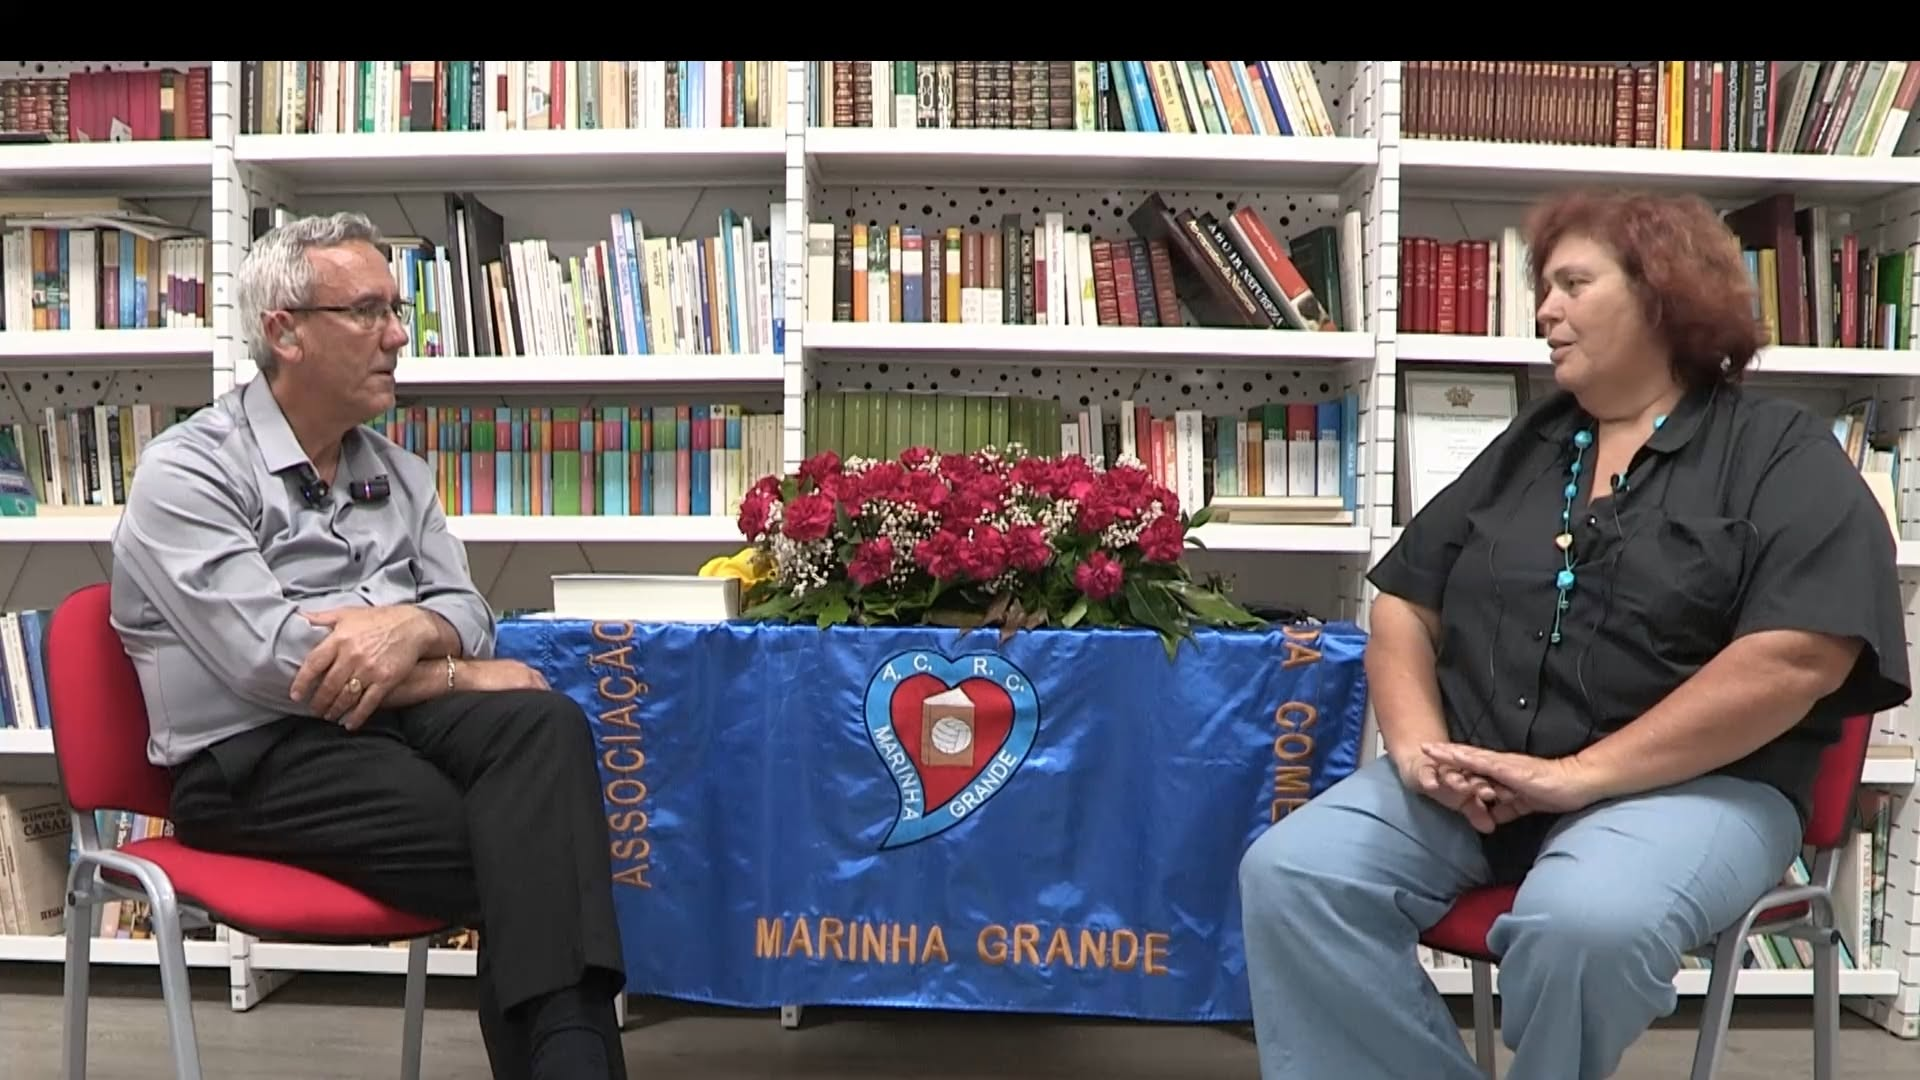
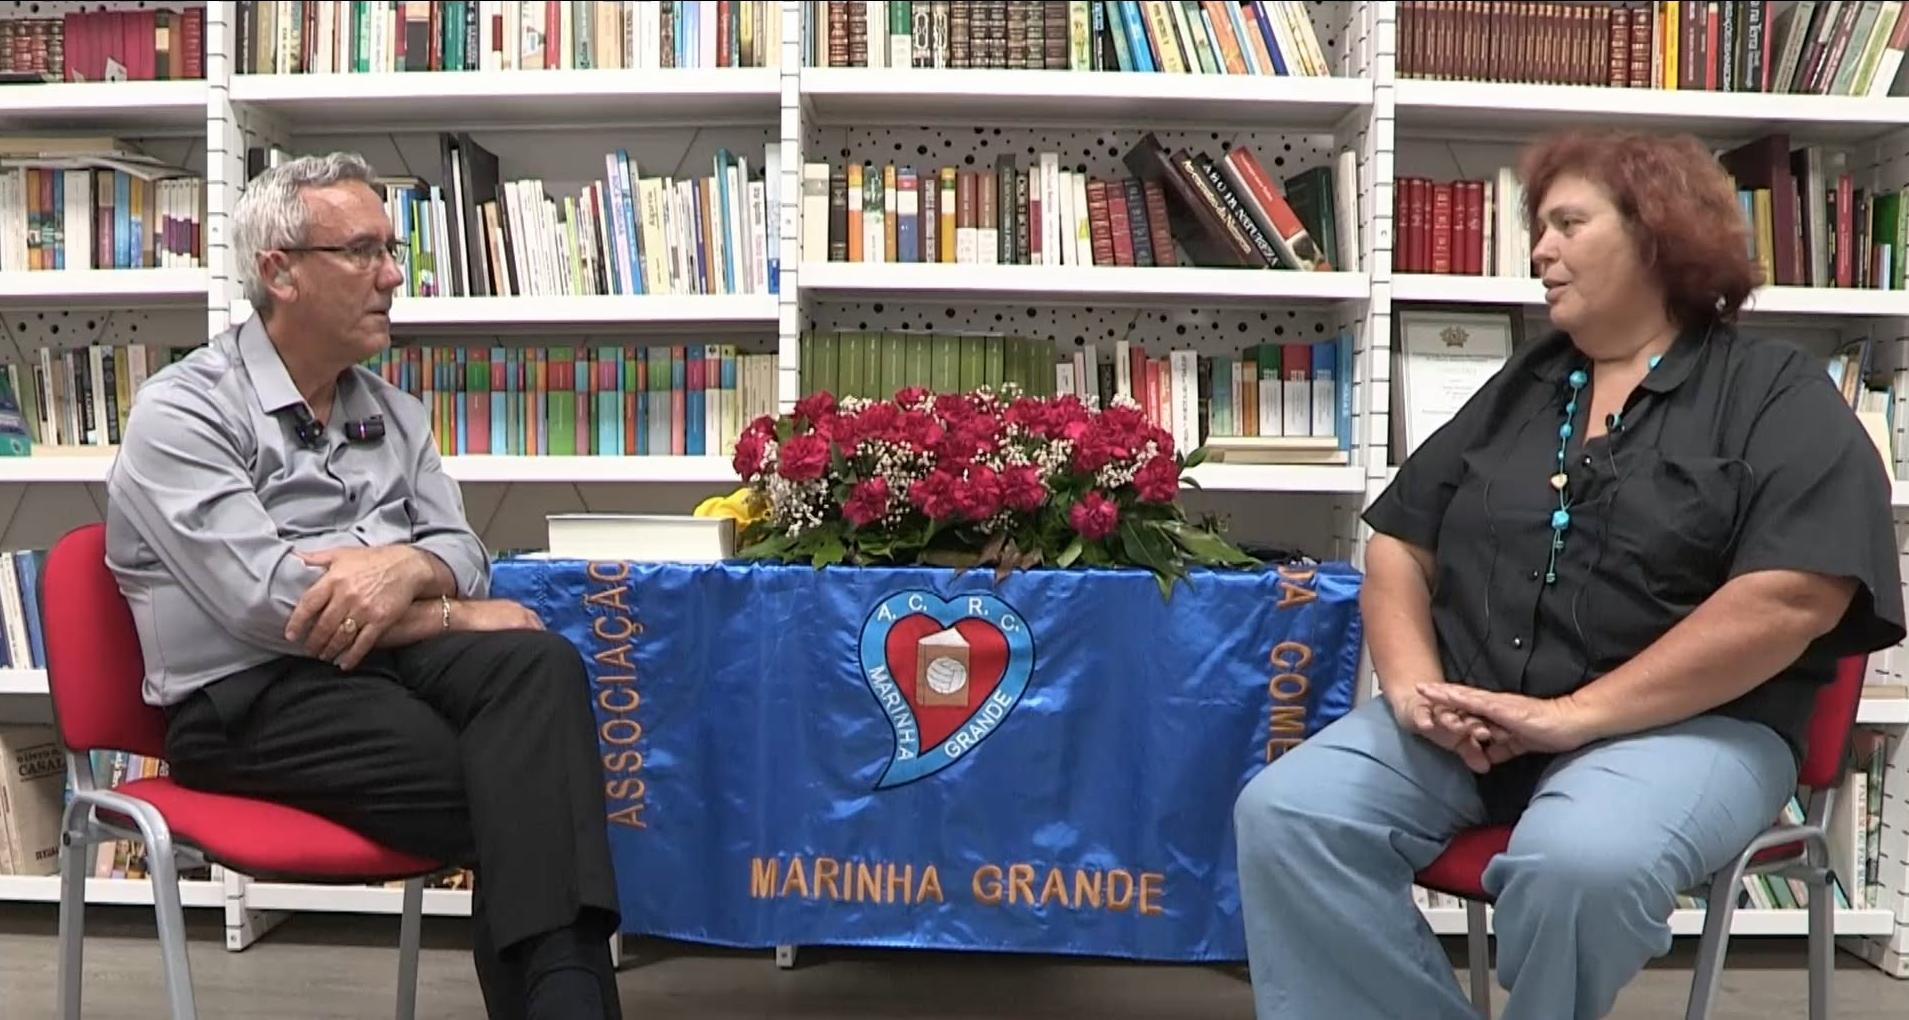
Update news feed

diff --git a/assets/styles/entrevista.css b/assets/styles/entrevista.css
@@ -203,20 +203,39 @@ body {
 
 @media (max-width: 768px) {
   .article-hero {
-    height: 70vh;
-    min-height: 420px;
+    height: auto;
+    min-height: 0;
+    display: flex;
+    flex-direction: column;
+    overflow: visible;
+  }
+  .article-hero img {
+    position: relative;
+    height: auto;
+    display: block;
+    padding-top: 52px;
+    background: #0a0a0a;
+  }
+  .article-hero-gradient {
+    display: none;
+  }
+  .article-hero-bar {
+    display: none;
   }
   .article-hero-content {
-    padding: 40px 24px 60px;
+    padding: 32px 20px 0;
+    background: linear-gradient(180deg, rgba(10,10,10,0.03), #0a0a0a 40px);
   }
   .article-hero h1 {
     font-size: 2.6rem;
-  }
-  .article-hero-bar {
-    left: 16px;
+    margin: 0 0 16px;
   }
   .hero-subtitle {
     font-size: 0.95rem;
+    margin: 0 0 40px;
+  }
+  .article-hero-tag {
+    margin-bottom: 16px;
   }
   .article-body {
     padding: 0 20px 60px;

diff --git a/index.html b/index.html
@@ -402,8 +402,6 @@
 
 <script>
 (function() {
-  var key = 'camg_popup_tvmg';
-  if (sessionStorage.getItem(key)) return;
   var overlay = document.getElementById('popupOverlay');
   var closeBtn = document.getElementById('popupClose');
   var backdrop = document.getElementById('popupBackdrop');
@@ -411,7 +409,6 @@
   function close() {
     overlay.classList.remove('open');
     setTimeout(function() { overlay.style.display = 'none'; }, 400);
-    try { sessionStorage.setItem(key, '1'); } catch(e) {}
   }
   setTimeout(open, 1200);
   closeBtn.addEventListener('click', close);